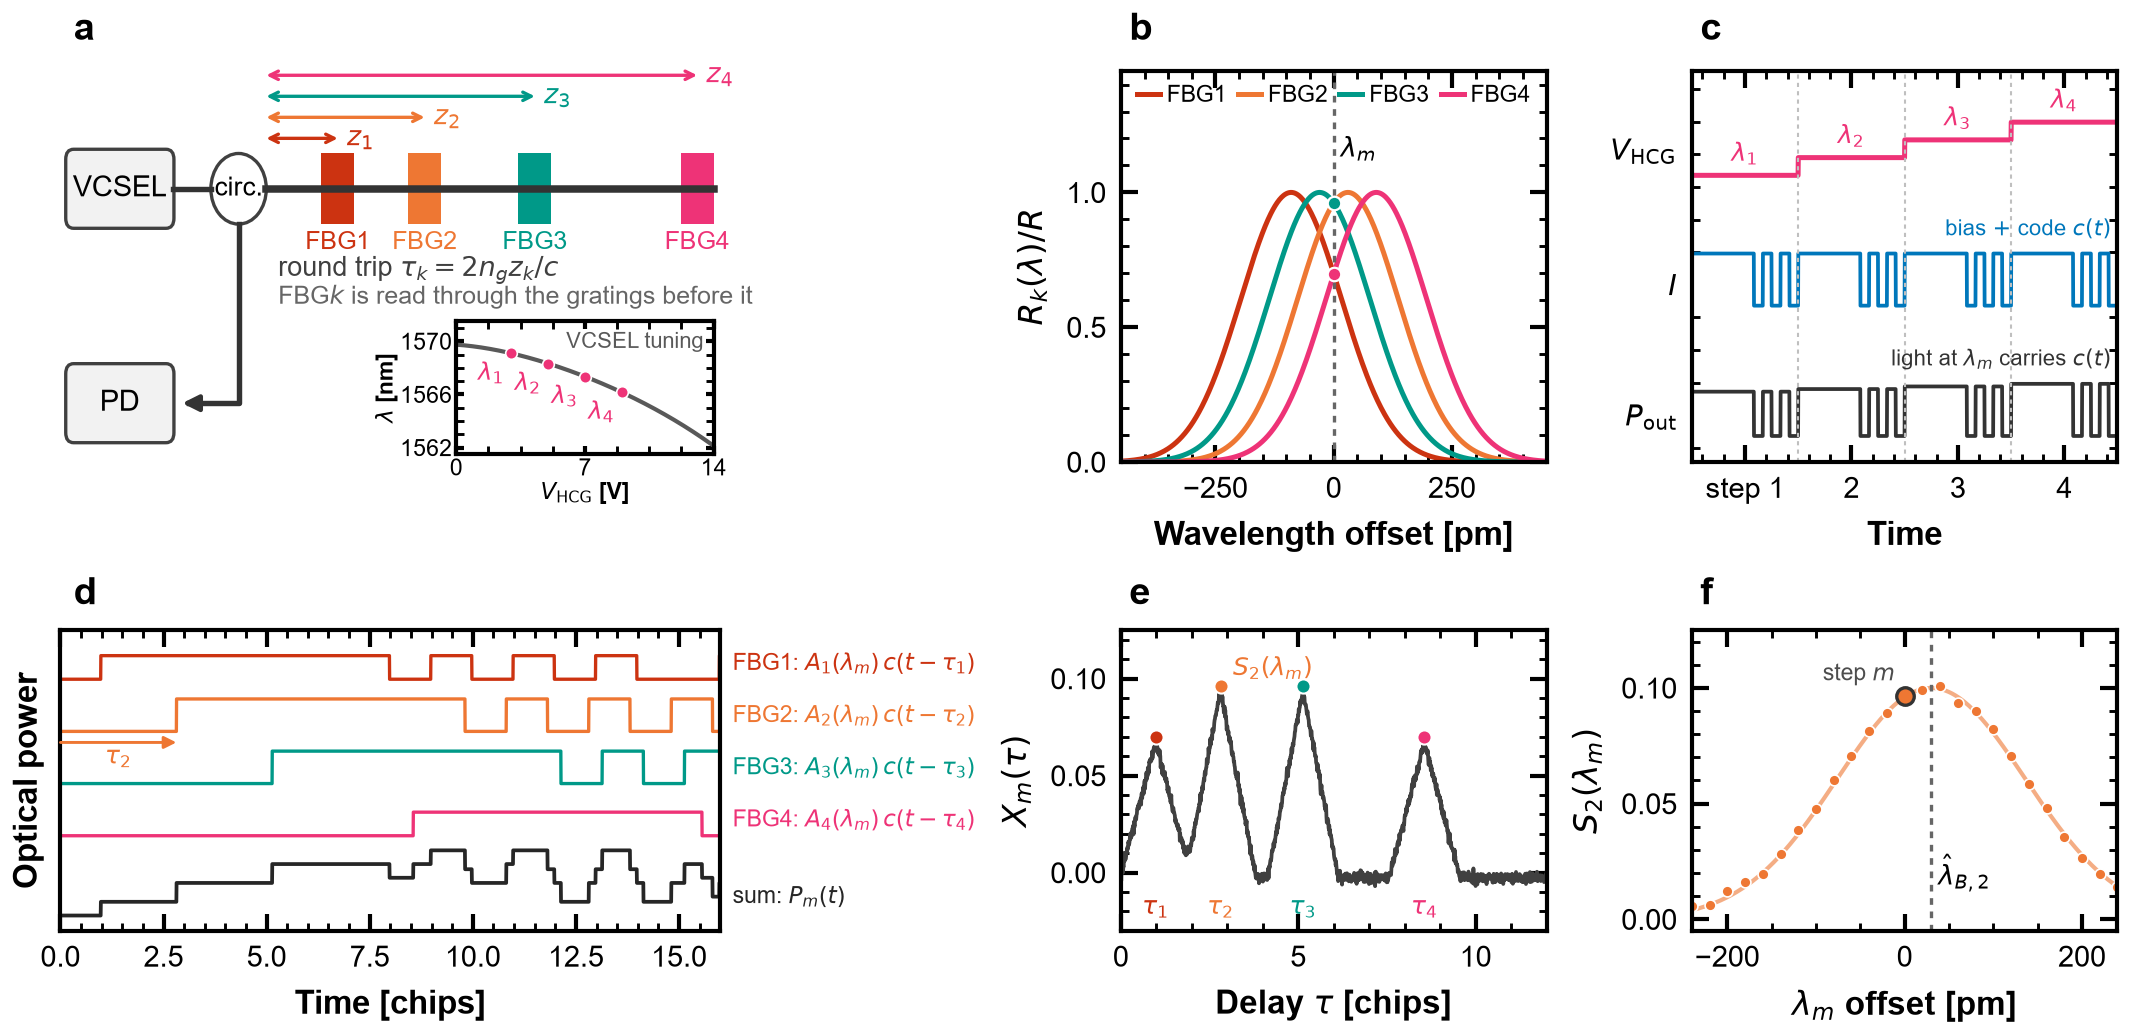
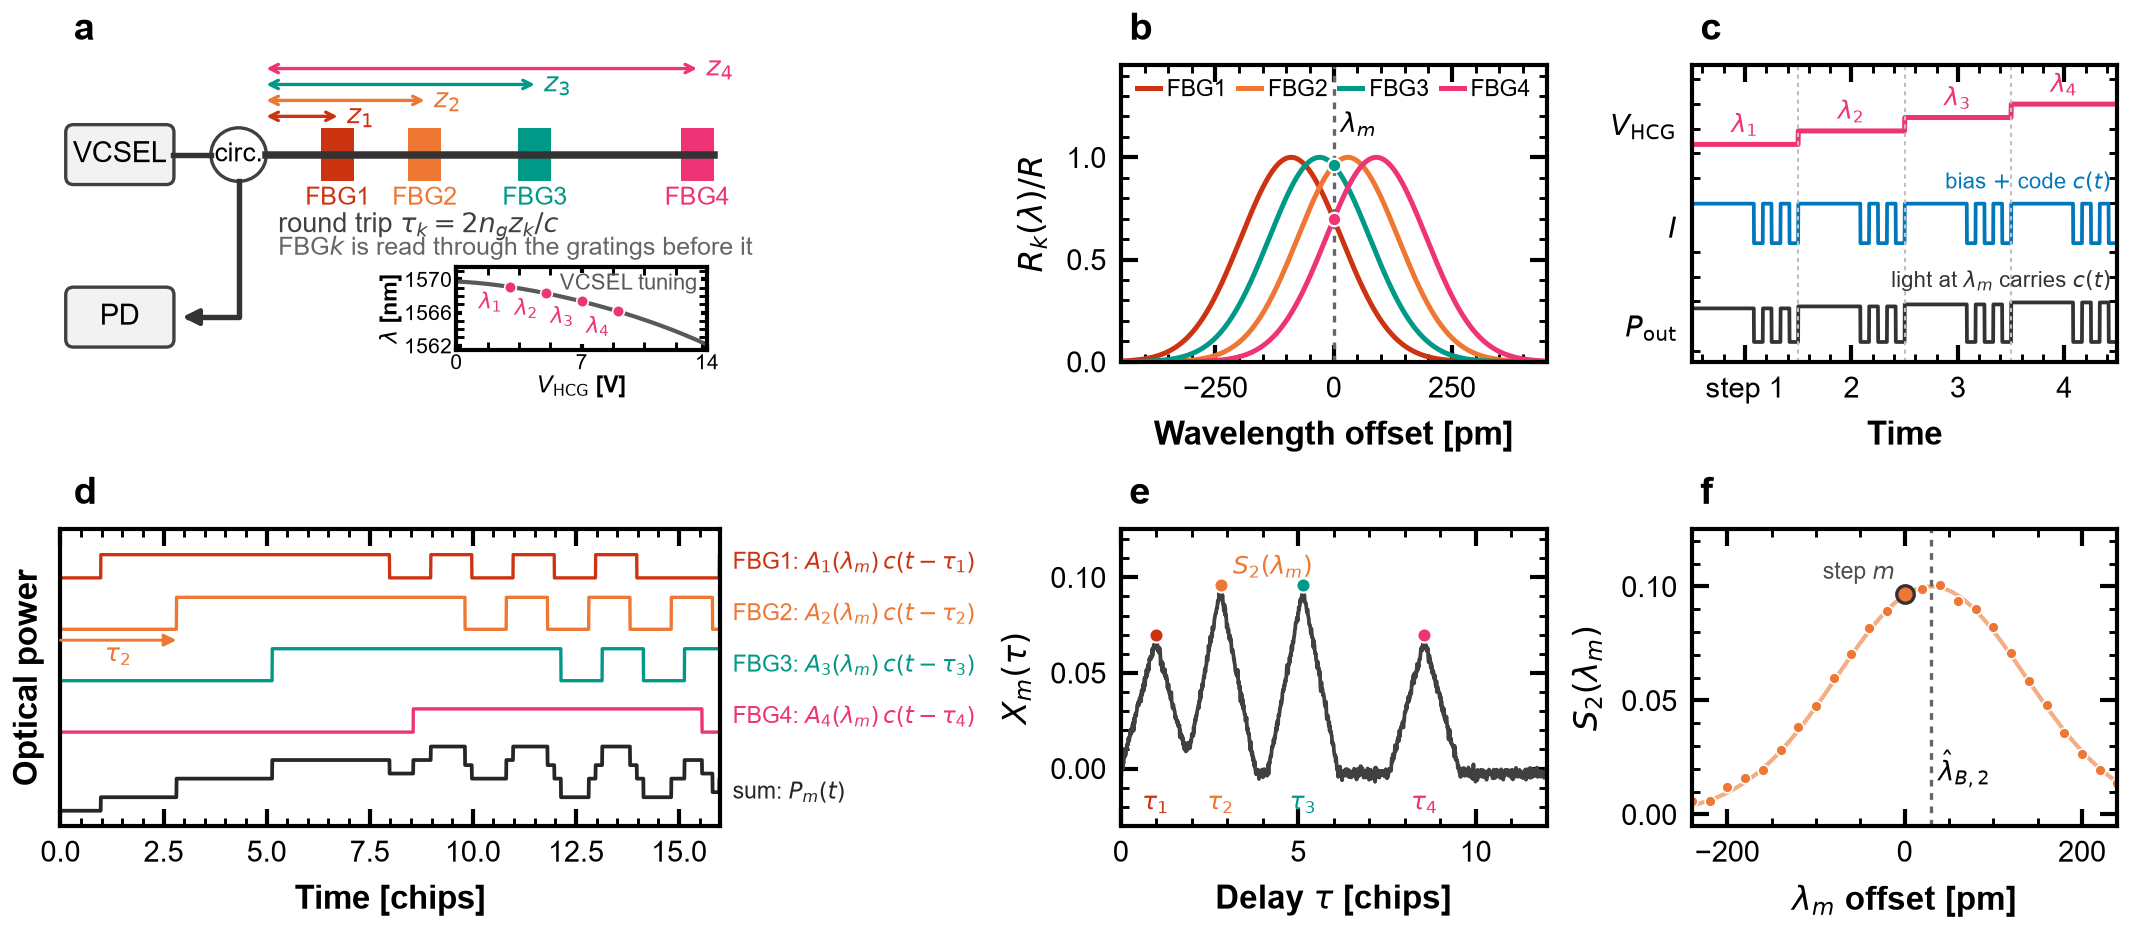
s_fig1_principle: equal row heights, 3.1 in tall

diff --git a/python_selfcal_cdm/s_fig1_principle.py b/python_selfcal_cdm/s_fig1_principle.py
@@ -41,8 +41,8 @@ LAM_M = 0.0                                  # the wavelength step shown in (b),
 A = R * np.exp(-0.5 * ((LAM_M - DET) / SIG) ** 2)   # A_k(lambda_m)
 code = C._mls01(7).astype(float)             # N = 127 chips, 0/1
 
-fig = plt.figure(figsize=(7.1, 3.45), layout='constrained')
-gs = fig.add_gridspec(2, 3, width_ratios=[1.55, 1.0, 1.0], height_ratios=[1.3, 1.0])
+fig = plt.figure(figsize=(7.1, 3.1), layout='constrained')
+gs = fig.add_gridspec(2, 3, width_ratios=[1.55, 1.0, 1.0], height_ratios=[1.0, 1.0])
 axa = fig.add_subplot(gs[0, 0]); axb = fig.add_subplot(gs[0, 1]); axc = fig.add_subplot(gs[0, 2])
 axd = fig.add_subplot(gs[1, 0]); axe = fig.add_subplot(gs[1, 1]); axf = fig.add_subplot(gs[1, 2])
 
@@ -67,18 +67,18 @@ for k in range(K):
     y = YF + 0.6 + 0.25 * k
     ax.annotate('', xy=(xk, y), xytext=(3.12, y), arrowprops=dict(arrowstyle='<->', color=COLS[k], lw=0.8, mutation_scale=5, shrinkA=0, shrinkB=0))
     ax.text(xk + 0.14, y, '$z_%d$' % (k + 1), ha='left', va='center', fontsize=6.5, color=COLS[k])
-ax.text(3.3, 2.58, 'round trip $\\tau_k=2n_gz_k/c$', fontsize=6.5, ha='left', va='center', color='0.25')
-ax.text(3.3, 2.26, 'FBG$k$ is read through the gratings before it', fontsize=6, ha='left', va='center', color='0.4')
+ax.text(3.3, 2.42, 'round trip $\\tau_k=2n_gz_k/c$', fontsize=6.5, ha='left', va='center', color='0.25')
+ax.text(3.3, 2.08, 'FBG$k$ is read through the gratings before it', fontsize=6, ha='left', va='center', color='0.4')
 # inset: measured VCSEL tuning curve, the four steps of (c) marked on it
-axi = ax.inset_axes([0.60, 0.02, 0.39, 0.34])
+axi = ax.inset_axes([0.60, 0.04, 0.38, 0.28])
 axi.plot(D.TUNE_V, D.TUNE_L, color='0.35', lw=1.0)
 V4 = np.array([3.0, 5.0, 7.0, 9.0])
 axi.plot(V4, np.polyval(D.TUNE_P4, V4), 'o', color=FS.PURPLE, ms=2.8, mec='white', mew=0.4, zorder=5)
 for i, v in enumerate(V4):
-    axi.text(v - 0.4, np.polyval(D.TUNE_P4, v) - 0.6, '$\\lambda_%d$' % (i + 1), fontsize=5.8, color=FS.PURPLE, ha='right', va='top')
+    axi.text(v - 0.4, np.polyval(D.TUNE_P4, v) - 0.6, '$\\lambda_%d$' % (i + 1), fontsize=5.2, color=FS.PURPLE, ha='right', va='top')
 axi.set_xlim(0, 14); axi.set_ylim(1561.5, 1571.5)
 axi.set_xticks([0, 7, 14]); axi.set_yticks([1562, 1566, 1570])
-axi.tick_params(labelsize=5.5, length=2, pad=1)
+axi.tick_params(labelsize=5, length=1.5, pad=1)
 axi.set_xlabel('$V_{\\mathrm{HCG}}$ [V]', fontsize=5.5, labelpad=0.5); axi.set_ylabel('$\\lambda$ [nm]', fontsize=5.5, labelpad=0.5)
 axi.text(0.96, 0.92, 'VCSEL tuning', transform=axi.transAxes, fontsize=5.2, ha='right', va='top', color='0.35')
 FS.letter(ax, 'a')
